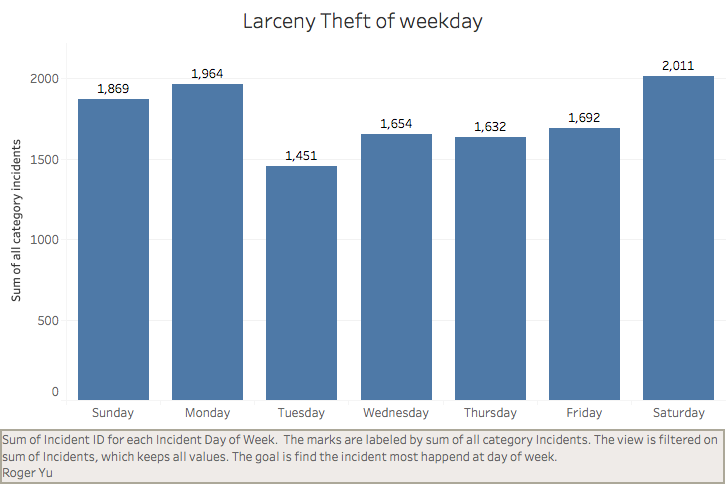
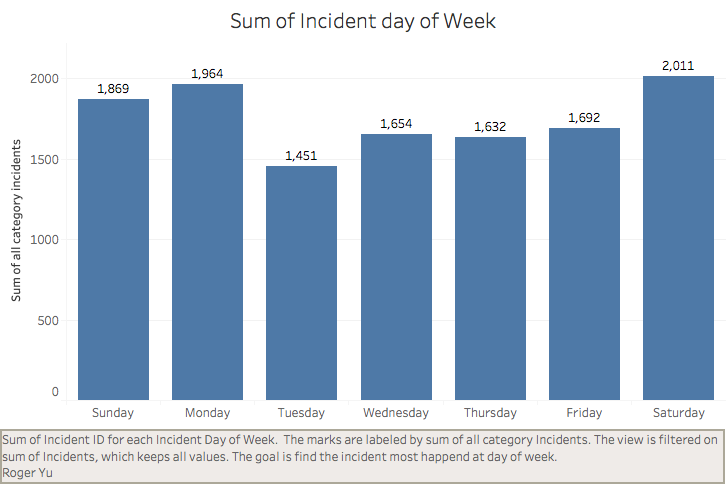
Finished!

Changed region(s): [[0.303, 0.031, 0.697, 0.062]]

diff --git a/index.html b/index.html
@@ -222,7 +222,6 @@
 
             <td>
               I create three different visualizations. The first and second are encode data used bars, and the third one used pie chart. And have three different perspectives. And use color in second and third charts. Have titles and axis labels.
-              If appropriate, provide a brief justification for this level of functionality. Clearly state if this level was not implemented.
             </td>
           </tr>
 
@@ -237,14 +236,14 @@
             </td>
 
             <td>
-              If appropriate, provide a brief justification for this level of functionality. Clearly state if this level was not implemented.
+              Try my best to match of the design from my Tableau prototype.
             </td>
           </tr>
 
           <!-- b level functionality -->
           <tr>
             <td class="has-text-centered">
-              <i class="far fa-fw fa-times-circle has-text-danger"></i>
+              <i class="far fa-fw fa-check-circle has-text-success"></i>
             </td>
 
             <td class="has-text-centered">
@@ -252,7 +251,7 @@
             </td>
 
             <td>
-              If appropriate, provide a brief justification for this level of functionality. Clearly state if this level was not implemented.
+              Try my best to match of the design from my Tableau prototype.
             </td>
           </tr>
 
@@ -260,7 +259,7 @@
           <!-- a level functionality -->
           <tr>
             <td class="has-text-centered">
-              <i class="far fa-fw fa-times-circle has-text-danger"></i>
+              <i class="far fa-fw fa-check-circle has-text-success"></i>
             </td>
 
             <td class="has-text-centered">
@@ -268,7 +267,7 @@
             </td>
 
             <td>
-              If appropriate, provide a brief justification for this level of functionality. Clearly state if this level was not implemented.
+              Try my best to match of the design from my Tableau prototype.
             </td>
           </tr>
         <tbody>
@@ -301,8 +300,7 @@
               <!-- todo: replace with your information -->
               <strong>Roger Yu</strong>
               <br/>
-              Testing the github repository!!!!!!!!!!!!!!
-              This is a good place to place a brief biography describing your interests and skills, a professional profile photo, and/or links to your Github, Linkedin, and other <em>professional</em> social media accounts.
+              A student in bridge program!
               <br/>
               <!-- find brand icons at: https://fontawesome.com/icons?d=gallery&s=brands&m=free -->
               <a href="https://github.com/">

diff --git a/prototype2.js b/prototype2.js
@@ -108,6 +108,35 @@ gs.append("text")
     })
     .attr('font-size', 14)
 
+    gs.append("text")
+  .attr("x", (plotWidth / 2) - 650)
+  .attr("y", 0 - (plotHeight / 2) + 30)
+  .attr("text-anchor", "middle")
+  .style("font-size", "16px")
+  .style("text-decoration", "underline")
+  .text("Top 5 Incidents Count Compare");
+
+  gs.append("text")
+.attr("x", (plotWidth / 2) - 850)
+.attr("y", 0 - (plotHeight / 2) + 300)
+.attr("text-anchor", "middle")
+.style("font-size", "16px")
+.text("Incident Number and Incident Category.  Color shows details about Incident Category.  Size shows sum of Incident Number.  The");
+
+gs.append("text")
+.attr("x", (plotWidth / 2) - 845)
+.attr("y", 0 - (plotHeight / 2) + 320)
+.attr("text-anchor", "middle")
+.style("font-size", "16px")
+.text("marks are labeled by Incident Number and Incident Category. The view is filtered on Incident Number, which keeps 676, 701, 727,");
+
+gs.append("text")
+.attr("x", (plotWidth / 2) - 930)
+.attr("y", 0 - (plotHeight / 2) + 340)
+.attr("text-anchor", "middle")
+.style("font-size", "16px")
+.text("948 and 4037.People can see larceny theft are over half even in top 5 total number of incidents. Roger Yu");
+
 
 };
 

diff --git a/prototype1.js b/prototype1.js
@@ -87,7 +87,7 @@ var DrawBarChart1 = function(){
 
     // notice it is at the top of our svg
     // we need to translate/shift it down to the bottom
-    xGroup.attr("transform", "translate(0," + plotHeight + ")")
+    xGroup.attr("transform", "translate(0," +plotHeight + ")")
 
     // do the same for our y axix
     let yGroup = plot.append("g").attr("id", "y-axis");
@@ -133,6 +133,13 @@ for (var i = 0; i < 7; i++) {
             .attr("y", incidentScale(outputObj1.incidentId[i]))
           }
 
+          svg.append("text")
+        .attr("x", (plotWidth / 2))
+        .attr("y", 0 - (plotHeight / 2) + 200)
+        .attr("text-anchor", "middle")
+        .style("font-size", "16px")
+        .style("text-decoration", "underline")
+        .text("Sum of Incident day of Week");
 
 };
 

diff --git a/prototype4.js b/prototype4.js
@@ -135,6 +135,14 @@ var DrawBarChart2 = function(){
                           .attr("x", 50+monthScale(outputObj.dates[i]))
                           .attr("y", incidentScale(outputObj.sum[i])-20)
                         }
+
+                        svg.append("text")
+                      .attr("x", (plotWidth / 2))
+                      .attr("y", 0 - (plotHeight / 2) + 200)
+                      .attr("text-anchor", "middle")
+                      .style("font-size", "16px")
+                      .style("text-decoration", "underline")
+                      .text("Sum of Incident day of Week");
 };
 
 LoadingData2();
